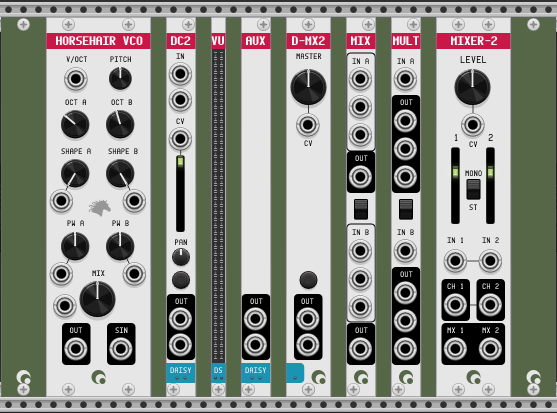
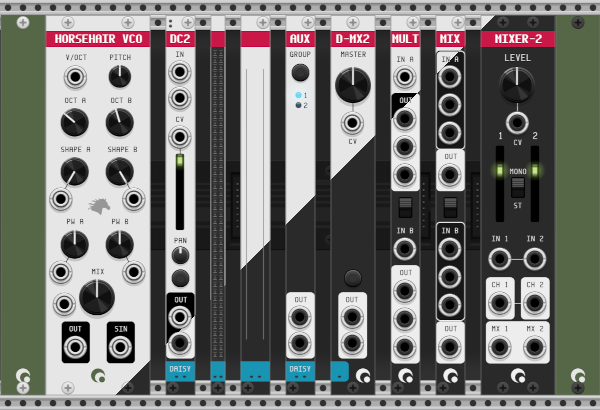
Update README for 2.2 improvements

diff --git a/README.md b/README.md
@@ -9,53 +9,141 @@ Modules in this plugin pack:
 
 ## Horsehair VCO | 7HP
 
-This is an oscillator module with 3 oscillators. The main two oscillators (A and B) are interpolated between square and saw waves. For each of the two main oscillators, you can modulate the octave for each independently as well as the shape (change smoothly between square and saw) and the pulse width (only affects the square wave component of the oscillation). The shape and pulse width can be modulated with CV inputs. A mix knob interpolates between osc A and osc B and also has a CV input. The main output will provide the mix output of osc A and B. There is also a sin output that provides a basic sine wave, good for a sub out to be processed separately with the main oscillator output.
+Horsehair is a promise of adventure. This module is an 3-oscillator VCO. The
+main two oscillators (A and B) are interpolated between square and saw waves.
+For each of the two main oscillators, you can modulate the octave for each
+independently as well as the shape (change smoothly between square and saw) and
+the pulse width (only affects the square wave component of the oscillation).
 
-## MULT | Buffered Multiple | 2HP
+| Parameter | Range | Description |
+| ---- | ---- | ---- |
+| Input : 1V/Oct | -10v to 10v | 0 volts is middle C (261.63) |
+| Param : Pitch | -2 to 2 | The pitch knob will adjust the main pitch input as a fine tune. All the way left (-2) will decrease the pitch by a tritone (184.99 Hz F#). All the way right (+2) will increase the pitch by a tritone (369.99 Hz F#) |
+| Param: Oct A | -5 to 4 | The Oct A knob will adjust the main pitch input by an octave for oscillator A. |
+| Param: Oct B | -5 to 4 | The Oct B knob will adjust the main pitch input by an octave for oscillator B. |
+| Param: Shape A | 0 to 1 | The Shape A knob controls the waveform shape for oscillator A. It interpolates between a square wave (0) and a saw wave (1). This parameter can be controlled by a CV input. |
+| Input: Osc A Shape CV Input | -10v to 10v | Voltage input controls the waveform shape for oscillator A. |
+| Param: Shape B | 0 to 1 | The Shape B knob controls the waveform shape for oscillator B. It interpolates between a square wave (0) and a saw wave (1). This parameter can be controlled by a CV input. |
+| Input: Osc B Shape CV Input | -10v to 10v | Voltage input controls the waveform shape for oscillator B. |
+| Param: PW A | 0 to 1 | The PW A knob controls the pulsewidth value for the square wave component of oscillator A. This parameter can be controlled by a CV input. |
+| Input: Osc A PW CV Input | -10v to 10v | Voltage input controls the pulsewith value for oscillator A. |
+| Param: PW B | 0 to 1 | The PW B knob controls the pulsewidth value for the square wave component of oscillator B. This parameter can be controlled by a CV input. |
+| Input: Osc A PW CV Input | -10v to 10v | Voltage input controls the pulsewith value for oscillator B. |
+| Param: Mix level | 0 to 100% | The mix knob controls the overall mix level from both oscillator A and B. At extreme left (0%) only oscillator A will be output. At extreme right (100%) only oscillator B will be output. The mix can be controlled by a CV input. |
+| Input: Mix CV Input | -10v to 10v | Voltage input controls the mix level. |
+| Output: Osc Mix |  | Output signal of mix of oscillator A and B. |
+| Output: Sine |  | Separate sine wave oscillator output. The pitch matches the octave and pitch of oscillator A. |
 
-Two 1x3 voltage copies. With switch in the middle in the down position, it will turn into a 1x6 copier.
+## Daisy Mix Modular Mixer (suite of modules)
 
-## MIX | Unity Mix | 2HP
+Daisy chain is a suite of narrow modules when put together constitute a
+flexible, modular mixer. Piece together your mixer with the following building
+block modules: DC2 (Stereo channel strip), AUX (Aux send channel), VU (a vu
+meter), Blank Separator, and a Master Mix bus.
 
-Sum and average signals from 3 inputs into 1 output. With switch in middle in the down position, it will take 6 inputs to 2 outputs.
+When they are connected together, they will form a chain comprising a working
+connected mixer. The signal flow only works by connecting channels from left
+to right, the master bus on the end (as the right-most module).
 
-## MIXER-2 | Master Mixer | 5HP
-
-A 2-channel mixer with a mono/stereo switch. In mono mode, input channel 1 will be copied to channel two's output. This is useful if you want to copy a mono signal to route to modules that need stereo inputs (for example, L and R channels of Core Audio module).
-
-## DC2 | Daisy Mix Channel STEREO | 2HP
-
-This is a modular mixer! There are three types of modules that make up a full mixer: Channel strip, Aux channel strip, and Master channel. You can use multiple copies of each of the channel strips up to 16 channels. When these modules are connected together it will chain them together and they will all feed into the master output module at the end. The fader range is 0.0 to 1.0. Each channel has a stereo input, a CV input to control the fader, a mute button, a panning knob and individual stereo channel outs (post fader and CV). With only an active plug into the "left channel" (first) stereo input, it will output as mono.
-
-Below is an image of an example daisy mixer composed from various daisy chain mixer modules with several channels linked together:
+Below is an image of an example daisy mixer composed from various daisy chain
+mixer modules with several channels linked together:
 
 ![Daisy Mixer Example](https://github.com/sumpygump/quantal-audio/raw/master/doc/img/quantal-audio-daisy-mixer2.png)
 
-Note that there are several input channels chained together and then an aux channel. The aux channel receives the mixed signal from all the previous channels on the left. The other two channels on the right could be for a return signal from the aux sends or other audio signals that are not included in the aux send.
+## D-MX2 | Daisy Mix Master STEREO | 3HP
+
+The final module in the end of a chain, is a master bus for the Daisy-chained
+channels. It has a master fader knob with CV control, a mute button, and two
+output channels (L and R). The master bus will clamp signals to (+/-) 12 volt
+output signal.
+
+| Parameter | Range | Description |
+| ---- | ---- | ---- |
+| Param : Mix Level | -inf dB to +6 dB | The overall mix level for all collected daisy channels to the left. The center default value is 0dB (100% of incoming mix signal). |
+| Input : CV mix level input | -10v to 10v | Voltage input controls mix level amount for master bus. |
+| Param : Mute button | on/off | When enabled, this button will mute all signals for the master bus. |
+| Output : Channel L mix | -10v to 10v | Final output signal for left channel post level knob and CV. |
+| Output : Channel R mix | -10v to 10v | Final output signal for right channel post level knob and CV. |
+
+The context menu of this module provides a few convenience entries to create
+channel modules to the left, with the following options:
+
+ - Create 1 channel
+ - Create 1 channel with vu meter
+ - Create 2 channels
+ - Create 2 channels with vu meters
+ - Create 2 channels with vu meters + aux sends
+ - Create 4 channels
+ - Create 4 channels with vu meters
+ - Create 4 channels with vu meters + aux sends
+
+![Daisy mix master context menu](https://github.com/sumpygump/quantal-audio/raw/master/doc/img/daisy-master-context-menu.png)
+
+## DC2 | Daisy Mix Channel STEREO | 2HP
+
+How many channel strips do you need in your modular mixer? Compose your mixer
+with only as many as you need by using a stereo daisy mix channel (DC2). Place
+down a copy of this module for each stereo input needed as long as they are to
+the left of a D-MX2 module (master bus). Daisy Mix supports up to 16
+channels. Each channel has a stereo input, a CV input to control the fader, a
+mute button, a panning knob and individual stereo channel outs (post fader and
+CV).
+
+| Parameter | Range | Description |
+| ---- | ---- | ---- |
+| Input : Left/mono channel input | -10v to 10v | Audio signal for the left channel input for this channel strip. If there is no cable plugged into the right pair input, the module asssumes mono input. Supports a polyphony cable. |
+| Input : Right channel input | -10v to 10v | Audio signal for the right channel input for this channel strip. Supports a polyphony cable. |
+| Input : Fader amplitude CV input | -10v to 10v | Voltage input controls the amplitude amount for this channel strip. Lowest value provides 0% of signal from input(s) and highest value provides 100% of signal. |
+| Param : Fader | 0 to 1 | The fader controls the volume (amplitude) of input signal. |
+| Param : Pan | L to R | Pan knob controls the stereo position of the channel strip's signal between the left and right channels. |
+| Param : Mute button | on/off | When enabled, this button will mute the input signals. |
+| Output : Channel L output | -10v to 10v | Final output signal for left channel post fader, CV, pan and mute for this channel. Only use if you want to pipe output just from this channel to elsewhere in your patch. |
+| Output : Channel R output | -10v to 10v | Final output signal for right channel post fader, CV, pan and mute for this channel. Only use if you want to pipe output just from this channel to elsewhere in your patch. |
+| Daisy chain lights | | The daisy chain lights at the bottom of this module in the blue 'daisy' area indicate that this module is connected with other modules in this chain. The left light means it successfully is connected to a daisy mix module on the left side and the right light means it successfully is connected to a supported daisy mix module on the right side. The output signals and aux send signals will be passed down the chain to be processed by other daisy mix modules. |
+| Aux send | | To send the signal from this channel strip to an aux group later in the chain, use the context menu: Aux Group 1 Send Amt and Aux Group 2 Send Amt. The amount (0% to 100%) sent can be collected and processed by an AUX module later in the chain. |
+
+![Daisy mix channel context menu showing the aux group sends](https://github.com/sumpygump/quantal-audio/raw/master/doc/img/daisy-channel-context-menu.png)
 
 ## AUX | Daisy Mix Channel Aux Sends | 2HP
 
-This module will simply collect the mix from all previous daisy mix channels in the chain and provide two stereo outputs to send off for effects processing. Bring back the signal into the mixer by adding another channel strip to the right.
+The AUX module receives signal from DC2 modules to the left within a daisy mix
+chain that have an amount defined to be sent from the DC2 context menu. The AUX
+module can act as a group 1 receiver or a group 2 receiver. This module
+provides stereo outputs that can be sent to another signal processing flow
+outside the chain. Receive that processed audio by creating another DC2 module
+acting as a return.
+
+| Parameter | Range | Description |
+| ---- | ---- | ---- |
+| Param: Group button | Radio switch | Pressing this button will select which group this AUX module is acting for: either group 1 or group 2. The lights below will show which group this AUX is configured for which to receive signal. |
+| Output : Channel L output | -10v to 10v | Output signal for collected signals in the left channel from DC2 modules sending an amount to the configured group for this AUX module. |
+| Output : Channel R output | -10v to 10v | Output signal for collected signals in the right channel from DC2 modules sending an amount to the configured group for this AUX module. |
 
 ## VU | Daisy Mix Channel VU Meter | 1HP
 
-Attach this module to the right of a Daisy Channel strip and it will show a VU meter of the voltage signal for that channel strip. Part of the Daisy chain modular mixer.
+Attach a VU module to the right of a DC2 (Daisy Channel strip) or an AUX (Daisy
+Aux Sends) and it will show a VU meter of the voltage signal for that channel
+strip.
 
-## D-MX2 | Daisy Mix Master STEREO | 3HP
+## Daisy Mix Blank Separator | 2HP
 
-The final module in the end of the chain, acts as a master bus for the Daisy-chained channels. It has a master fader knob with CV control, a mute button, and two output channels (L and R). The master bus will clamp signals to (+/-) 12 volt output signal.
+The blank separator provides no special functionality other than it supports
+being part of the daisy chain and will send the signals along the chain. It is
+only useful as a visual separation module between other channels in the daisy
+mix as you deem necessary.
 
-## (Legacy) DCH | Daisy Mix Channel Mono | 2HP
+## MULT | Buffered Multiple | 2HP
 
-This is the original iteration of a modular mixer channel strip. The stereo version above is better because it doesn't require all the wires to daisy chain them together. Use multiple copies and each one acts as a channel strip that daisy chained together and the last one in the chain connected to the Daisy Master. You can chain together up to 16 channels. Chain them together by connecting the daisy out of a module to a daisy in of the next module. The fader range is 0.0 to 1.0. Each channel has a CV input to control the fader and a mute button. Each channel also has an out that can be used to route the audio from the indivdual channel post fader and CV.
+Two 1x3 voltage copies. With switch in the middle in the down position, it will
+turn into a 1x6 copier.
 
-An example daisy mixer with 5 channels daisy-chained together:
+## MIX | Unity Mix | 2HP
 
-![Daisy Mixer Example](https://github.com/sumpygump/quantal-audio/raw/master/doc/img/quantal-audio-daisy-mixer.png)
+Sum and average signals from 3 inputs into 1 output. With switch in middle in
+the down position, it will take 6 inputs to 2 outputs.
 
-It is not recommended to send voltage signals in or out of the daisy plugs other than daisy-to-daisy connections. The way the daisy chain works is by making very low voltage in order to pass the signal along until it gets to the master bus which raises the voltage back up. Sending a higher signal into the daisy plugs will result in distortion.
+## MIXER-2 | Master Mixer | 5HP
 
-## (Legacy) DSY-MX | Daisy Mix Master Mono | 3HP
-
-The Daisy mix master acts as a bus for daisy chained channel mods. It has a master fader knob with CV control and a mute button. The master bus will clamp signals to (+/-) 12 volt output signal.
-
+A 2-channel mixer with a mono/stereo switch. In mono mode, input channel one will
+be copied to channel two's output. This is useful if you want to copy a mono
+signal to route to modules that need stereo inputs.
